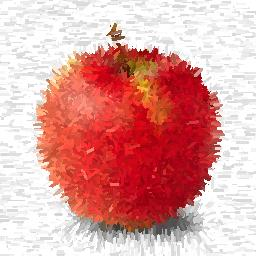
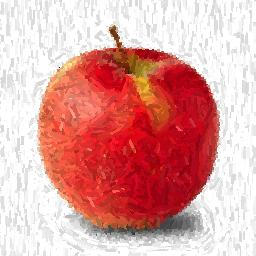
graident stroke!

diff --git a/project/source/gradient_stroke.m b/project/source/gradient_stroke.m
@@ -1,18 +1,25 @@
 close all;
 clear;
 
-im_name = 'apple_small';
+im_name = 'altgeld_small';
 
 theta_base = pi / 4;
 l_base = 4;
 sigma_base = 0.5;
+edge_threshold = 0.2;
 
 im = im2double(imread(strcat('images/', im_name, '.jpg')));
-      
+
 im_grayscale = rgb2gray(im);
-im_grayscale = imgaussfilt(im_grayscale);
+im_grayscale = imgaussfilt(im_grayscale, 2);
 im_edge = edge(im_grayscale, 'canny');
 [Gmag,Gdir] = imgradient(im_grayscale);
+Gdir = imgaussfilt(Gdir, 2);
+im = imgaussfilt(im, 0.8);
+
+figure(), imshow(im);
+figure(), imshow(Gmag);
+figure(), imagesc(Gdir);
 
 [height, width, ~] = size(im);
 im_out = zeros(size(im));
@@ -29,12 +36,82 @@ for i = 1 : length(to_render)
     cy = Y(to_render(i));
     color = im(cy, cx, :) .* randi([85 115]) ./ 100;
     
-    sigma = sigma_base + randi([-50 50]) / 1000;
-    theta = Gdir(cy, cx) / 360 * 2 * pi;
     l = l_base + randi([0 6]);
+    
+    sigma = sigma_base + randi([-50 50]) / 1000;
+    
+    if(Gdir(cy, cx) < 0)
+        theta = (Gdir(cy, cx) + 180) / 360 * 2 * pi;
+    else
+        theta = Gdir(cy, cx) / 360 * 2 * pi;
+    end
+    
+    theta = theta - pi / 2;
+    
+    if(theta > - pi / 2 + 0.1 && theta < pi / 2 - 0.1)
+        xrange = abs(l / 2 * cos(theta));
+
+        left = 0;
+        while left < xrange
+            y = round(cy - left * tan(theta));
+            x = cx - left;
+            if(y <= 1 || y >= height || x <= 1 || x >= width)
+                break;
+            end
+            if(Gmag(y, x) > edge_threshold || Gmag(y, x + 1) > edge_threshold || Gmag(y - 1, x + 1) > edge_threshold || Gmag(y + 1, x + 1) > edge_threshold || Gmag(y - 1, x) > edge_threshold || Gmag(y + 1, x) > edge_threshold || Gmag(y, x - 1) > edge_threshold || Gmag(y + 1, x - 1) > edge_threshold || Gmag(y - 1, x - 1) > edge_threshold)
+                break;
+            end
+            left = left + 1;
+        end
+
+        right = 0;
+        while right < xrange
+            y = round(cy + right * tan(theta));
+            x = cx + right;
+            if(y <= 1 || y >= height || x <= 1 || x >= width)
+                break;
+            end
+            if(Gmag(y, x) > edge_threshold || Gmag(y, x + 1) > edge_threshold || Gmag(y - 1, x + 1) > edge_threshold || Gmag(y + 1, x + 1) > edge_threshold || Gmag(y - 1, x) > edge_threshold || Gmag(y + 1, x) > edge_threshold || Gmag(y, x - 1) > edge_threshold || Gmag(y + 1, x - 1) > edge_threshold || Gmag(y - 1, x - 1) > edge_threshold)
+                break;
+            end
+            right = right + 1;
+        end
+
+        l = abs(round((right + left) / cos(theta)));
+    else
+        gamma = pi / 2 - theta;
+        yrange = abs(l / 2 * cos(gamma));
+        up = 0;
+        while up < yrange
+            y = cy + up;
+            x = round(cx - up * tan(gamma));
+            if(y <= 1 || y >= height || x <= 1 || x >= width)
+                break;
+            end
+            if(Gmag(y, x) > edge_threshold || Gmag(y, x + 1) > edge_threshold || Gmag(y - 1, x + 1) > edge_threshold || Gmag(y + 1, x + 1) > edge_threshold || Gmag(y - 1, x) > edge_threshold || Gmag(y + 1, x) > edge_threshold || Gmag(y, x - 1) > edge_threshold || Gmag(y + 1, x - 1) > edge_threshold || Gmag(y - 1, x - 1) > edge_threshold)
+                break;
+            end
+            up = up + 1;
+        end
+        
+        down = 0;
+        while down < yrange
+            y = cy - down;
+            x = round(cx + down * tan(gamma));
+            if(y <= 1 || y >= height || x <= 1 || x >= width)
+                break;
+            end
+            if(Gmag(y, x) > edge_threshold || Gmag(y, x + 1) > edge_threshold || Gmag(y - 1, x + 1) > edge_threshold || Gmag(y + 1, x + 1) > edge_threshold || Gmag(y - 1, x) > edge_threshold || Gmag(y + 1, x) > edge_threshold || Gmag(y, x - 1) > edge_threshold || Gmag(y + 1, x - 1) > edge_threshold || Gmag(y - 1, x - 1) > edge_threshold)
+                break;
+            end
+            down = down + 1;
+        end 
+        
+        l = (up + down) * cos(gamma);
+    end
     
     im_out = draw_stroke(im_out, color, cx, cy, sigma, l, theta);
 end
 
-figure(3), imshow(im_out);
+figure(), imshow(im_out);
 imwrite(im_out, strcat(im_name , '_gradient_stroke.jpg'));

diff --git a/project/source/edge_clipping.m b/project/source/edge_clipping.m
@@ -1,7 +1,7 @@
 close all;
 clear;
 
-im_name = 'apple_small';
+im_name = 'altgeld_small';
 
 theta_base = pi / 4;
 l_base = 4;

diff --git a/project/source/random_perturbation.m b/project/source/random_perturbation.m
@@ -1,7 +1,7 @@
 close all;
 clear;
 
-im_name = 'Mona-Lisa';
+im_name = 'altgeld_small';
 
 theta_base = pi / 4;
 l_base = 4;
